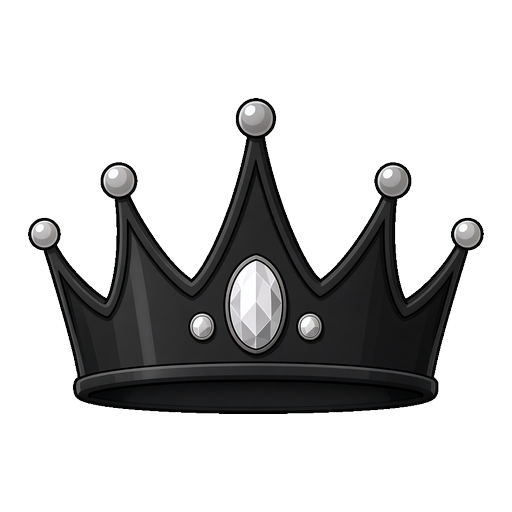
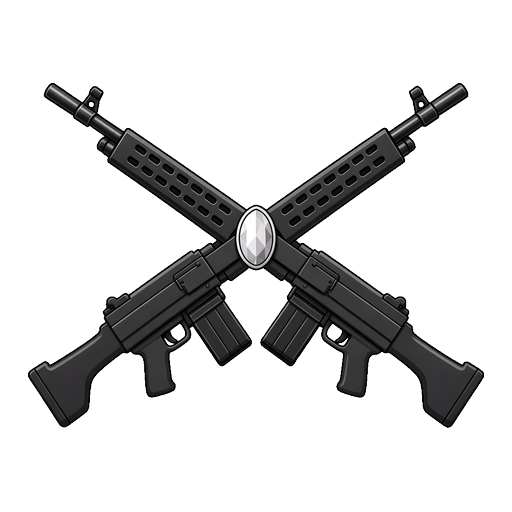
Redraw the gear set’s king, queen, rook, and bishop as a target, crossed guns, tanks, and jets.

Changed region(s): [[0.0312, 0.1562, 0.9688, 0.8438]]

diff --git a/src/App.jsx b/src/App.jsx
@@ -641,7 +641,7 @@ function App() {
               )}
               {pieceStyle === 'symbols' && (
                 <span className="elo-setting-hint">
-                  Cartoon helmet, grenade, missile, crown, fort, and star.
+                  Cartoon helmet, grenade, plane, crossed guns, tank, and target.
                 </span>
               )}
               {pieceStyle === 'fantasy' && (
